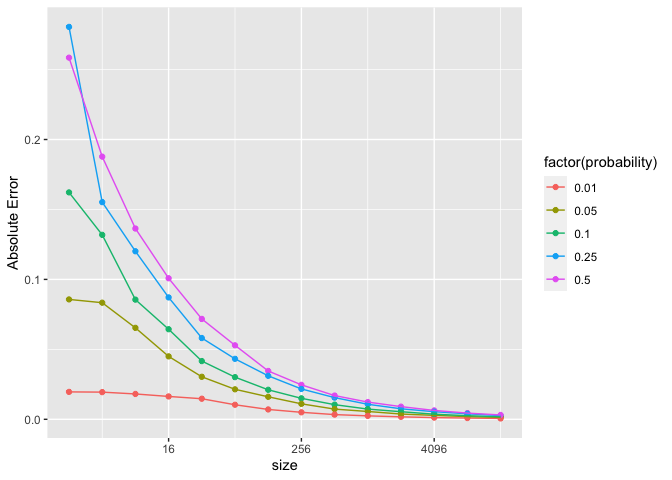
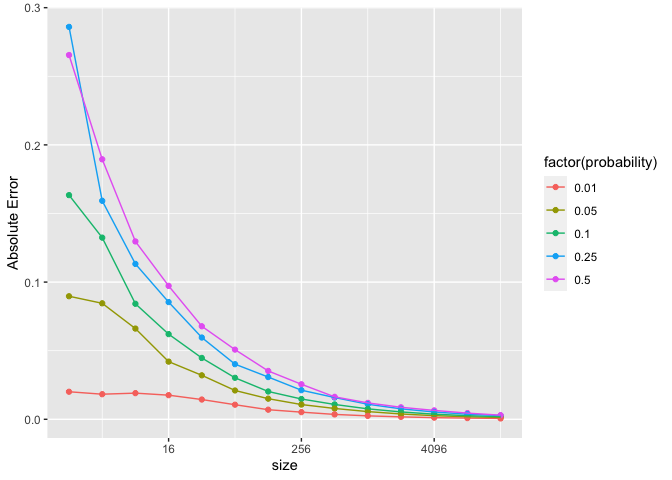
add graph

diff --git a/02-monte-carlo-error.md/Writeup.md b/02-monte-carlo-error.md/Writeup.md
@@ -124,76 +124,76 @@ data
 ```
 
     ##     size probability    Abs_Error   Rel_Error
-    ## 1      2        0.01 0.0196000000 2.392000000
-    ## 2      4        0.05 0.0833500000 1.577000000
-    ## 3      8        0.10 0.0855500000 0.851250000
-    ## 4     16        0.25 0.0871250000 0.346500000
-    ## 5     32        0.50 0.0717500000 0.141500000
-    ## 6     64        0.01 0.0103993750 1.048687500
-    ## 7    128        0.05 0.0160859375 0.311406250
-    ## 8    256        0.10 0.0150000000 0.154007813
-    ## 9    512        0.25 0.0155039062 0.060273437
-    ## 10  1024        0.50 0.0123144531 0.025089844
-    ## 11  2048        0.01 0.0017610156 0.180353516
-    ## 12  4096        0.05 0.0028286133 0.053712891
-    ## 13  8192        0.10 0.0025761230 0.026449463
-    ## 14 16384        0.25 0.0026788330 0.011095215
-    ## 15     2        0.50 0.2585000000 0.505000000
-    ## 16     4        0.01 0.0194300000 1.968000000
-    ## 17     8        0.05 0.0653750000 1.346500000
-    ## 18    16        0.10 0.0643875000 0.608125000
-    ## 19    32        0.25 0.0580937500 0.238750000
-    ## 20    64        0.50 0.0529062500 0.100687500
-    ## 21   128        0.01 0.0070490625 0.735781250
-    ## 22   256        0.05 0.0110679688 0.209875000
-    ## 23   512        0.10 0.0104730469 0.110320313
-    ## 24  1024        0.25 0.0107470703 0.041515625
-    ## 25  2048        0.50 0.0090693359 0.017265625
-    ## 26  4096        0.01 0.0012210449 0.121865234
-    ## 27  8192        0.05 0.0019275635 0.038503906
-    ## 28 16384        0.10 0.0018366333 0.018822388
-    ## 29     2        0.25 0.2805000000 1.108000000
-    ## 30     4        0.50 0.1877500000 0.380500000
-    ## 31     8        0.01 0.0181250000 1.852500000
-    ## 32    16        0.05 0.0449875000 0.896000000
-    ## 33    32        0.10 0.0416312500 0.431750000
-    ## 34    64        0.25 0.0432187500 0.173937500
-    ## 35   128        0.50 0.0345468750 0.073203125
-    ## 36   256        0.01 0.0050060938 0.495187500
-    ## 37   512        0.05 0.0072953125 0.161187500
-    ## 38  1024        0.10 0.0073111328 0.073292969
-    ## 39  2048        0.25 0.0075278320 0.030130859
-    ## 40  4096        0.50 0.0063454590 0.012134766
-    ## 41  8192        0.01 0.0009161523 0.084674316
-    ## 42 16384        0.05 0.0013614380 0.028217041
-    ## 43     2        0.10 0.1622000000 1.659000000
-    ## 44     4        0.25 0.1552500000 0.611000000
-    ## 45     8        0.50 0.1363750000 0.266750000
-    ## 46    16        0.01 0.0163475000 1.704000000
-    ## 47    32        0.05 0.0303875000 0.650250000
-    ## 48    64        0.10 0.0301437500 0.292906250
-    ## 49   128        0.25 0.0310937500 0.122593750
-    ## 50   256        0.50 0.0246406250 0.049468750
-    ## 51   512        0.01 0.0033714063 0.333726562
-    ## 52  1024        0.05 0.0055970703 0.109339844
-    ## 53  2048        0.10 0.0054346680 0.052038086
-    ## 54  4096        0.25 0.0054433594 0.022829102
-    ## 55  8192        0.50 0.0044478760 0.008706055
-    ## 56 16384        0.01 0.0006232251 0.061282959
-    ## 57     2        0.05 0.0857000000 1.782000000
-    ## 58     4        0.10 0.1318500000 1.290500000
-    ## 59     8        0.25 0.1201250000 0.476500000
-    ## 60    16        0.50 0.1008125000 0.203250000
-    ## 61    32        0.01 0.0147100000 1.491125000
-    ## 62    64        0.05 0.0214468750 0.429875000
-    ## 63   128        0.10 0.0210968750 0.203531250
-    ## 64   256        0.25 0.0217070313 0.087109375
-    ## 65   512        0.50 0.0169628906 0.035187500
-    ## 66  1024        0.01 0.0024717187 0.231785156
-    ## 67  2048        0.05 0.0037720703 0.078583984
-    ## 68  4096        0.10 0.0036620117 0.036385742
-    ## 69  8192        0.25 0.0039500732 0.015722656
-    ## 70 16384        0.50 0.0030996094 0.006103882
+    ## 1      2        0.01 0.0200800000 2.008000000
+    ## 2      4        0.05 0.0845500000 1.525000000
+    ## 3      8        0.10 0.0842000000 0.854250000
+    ## 4     16        0.25 0.0854375000 0.337500000
+    ## 5     32        0.50 0.0678125000 0.134437500
+    ## 6     64        0.01 0.0106350000 1.062625000
+    ## 7    128        0.05 0.0150234375 0.306781250
+    ## 8    256        0.10 0.0148000000 0.144382812
+    ## 9    512        0.25 0.0158691406 0.060937500
+    ## 10  1024        0.50 0.0119580078 0.025054687
+    ## 11  2048        0.01 0.0017738867 0.177378906
+    ## 12  4096        0.05 0.0026568359 0.053006836
+    ## 13  8192        0.10 0.0026458984 0.025946289
+    ## 14 16384        0.25 0.0027340088 0.010491211
+    ## 15     2        0.50 0.2655000000 0.501000000
+    ## 16     4        0.01 0.0183000000 1.989000000
+    ## 17     8        0.05 0.0661250000 1.301500000
+    ## 18    16        0.10 0.0620750000 0.611375000
+    ## 19    32        0.25 0.0595937500 0.244000000
+    ## 20    64        0.50 0.0507812500 0.099687500
+    ## 21   128        0.01 0.0069956250 0.695218750
+    ## 22   256        0.05 0.0107585937 0.213515625
+    ## 23   512        0.10 0.0108218750 0.107488281
+    ## 24  1024        0.25 0.0109716797 0.042429688
+    ## 25  2048        0.50 0.0087631836 0.018133789
+    ## 26  4096        0.01 0.0012042969 0.121369141
+    ## 27  8192        0.05 0.0018558105 0.037192871
+    ## 28 16384        0.10 0.0019339233 0.018618164
+    ## 29     2        0.25 0.2860000000 1.084000000
+    ## 30     4        0.50 0.1895000000 0.383000000
+    ## 31     8        0.01 0.0190700000 1.682500000
+    ## 32    16        0.05 0.0420375000 0.870750000
+    ## 33    32        0.10 0.0447062500 0.432000000
+    ## 34    64        0.25 0.0401875000 0.178437500
+    ## 35   128        0.50 0.0352421875 0.071046875
+    ## 36   256        0.01 0.0052210938 0.508562500
+    ## 37   512        0.05 0.0079015625 0.161468750
+    ## 38  1024        0.10 0.0076224609 0.072160156
+    ## 39  2048        0.25 0.0076367188 0.031205078
+    ## 40  4096        0.50 0.0064860840 0.012598145
+    ## 41  8192        0.01 0.0008953662 0.085809082
+    ## 42 16384        0.05 0.0013544678 0.026837891
+    ## 43     2        0.10 0.1634000000 1.613000000
+    ## 44     4        0.25 0.1592500000 0.626000000
+    ## 45     8        0.50 0.1296250000 0.273000000
+    ## 46    16        0.01 0.0175875000 1.695750000
+    ## 47    32        0.05 0.0320625000 0.643375000
+    ## 48    64        0.10 0.0302406250 0.305625000
+    ## 49   128        0.25 0.0308046875 0.124375000
+    ## 50   256        0.50 0.0255312500 0.048460938
+    ## 51   512        0.01 0.0035668750 0.353726563
+    ## 52  1024        0.05 0.0056228516 0.107253906
+    ## 53  2048        0.10 0.0053826172 0.051786133
+    ## 54  4096        0.25 0.0053269043 0.021854492
+    ## 55  8192        0.50 0.0045219727 0.008629395
+    ## 56 16384        0.01 0.0006302979 0.063387451
+    ## 57     2        0.05 0.0897000000 1.856000000
+    ## 58     4        0.10 0.1324000000 1.339500000
+    ## 59     8        0.25 0.1132500000 0.467000000
+    ## 60    16        0.50 0.0972500000 0.191625000
+    ## 61    32        0.01 0.0144100000 1.457250000
+    ## 62    64        0.05 0.0210125000 0.433000000
+    ## 63   128        0.10 0.0202750000 0.221484375
+    ## 64   256        0.25 0.0212109375 0.092328125
+    ## 65   512        0.50 0.0163691406 0.037058594
+    ## 66  1024        0.01 0.0025144141 0.241605469
+    ## 67  2048        0.05 0.0038842773 0.076136719
+    ## 68  4096        0.10 0.0037412109 0.037943848
+    ## 69  8192        0.25 0.0037292480 0.015375000
+    ## 70 16384        0.50 0.0030062256 0.006191040
 
 ***Visualization***
 
